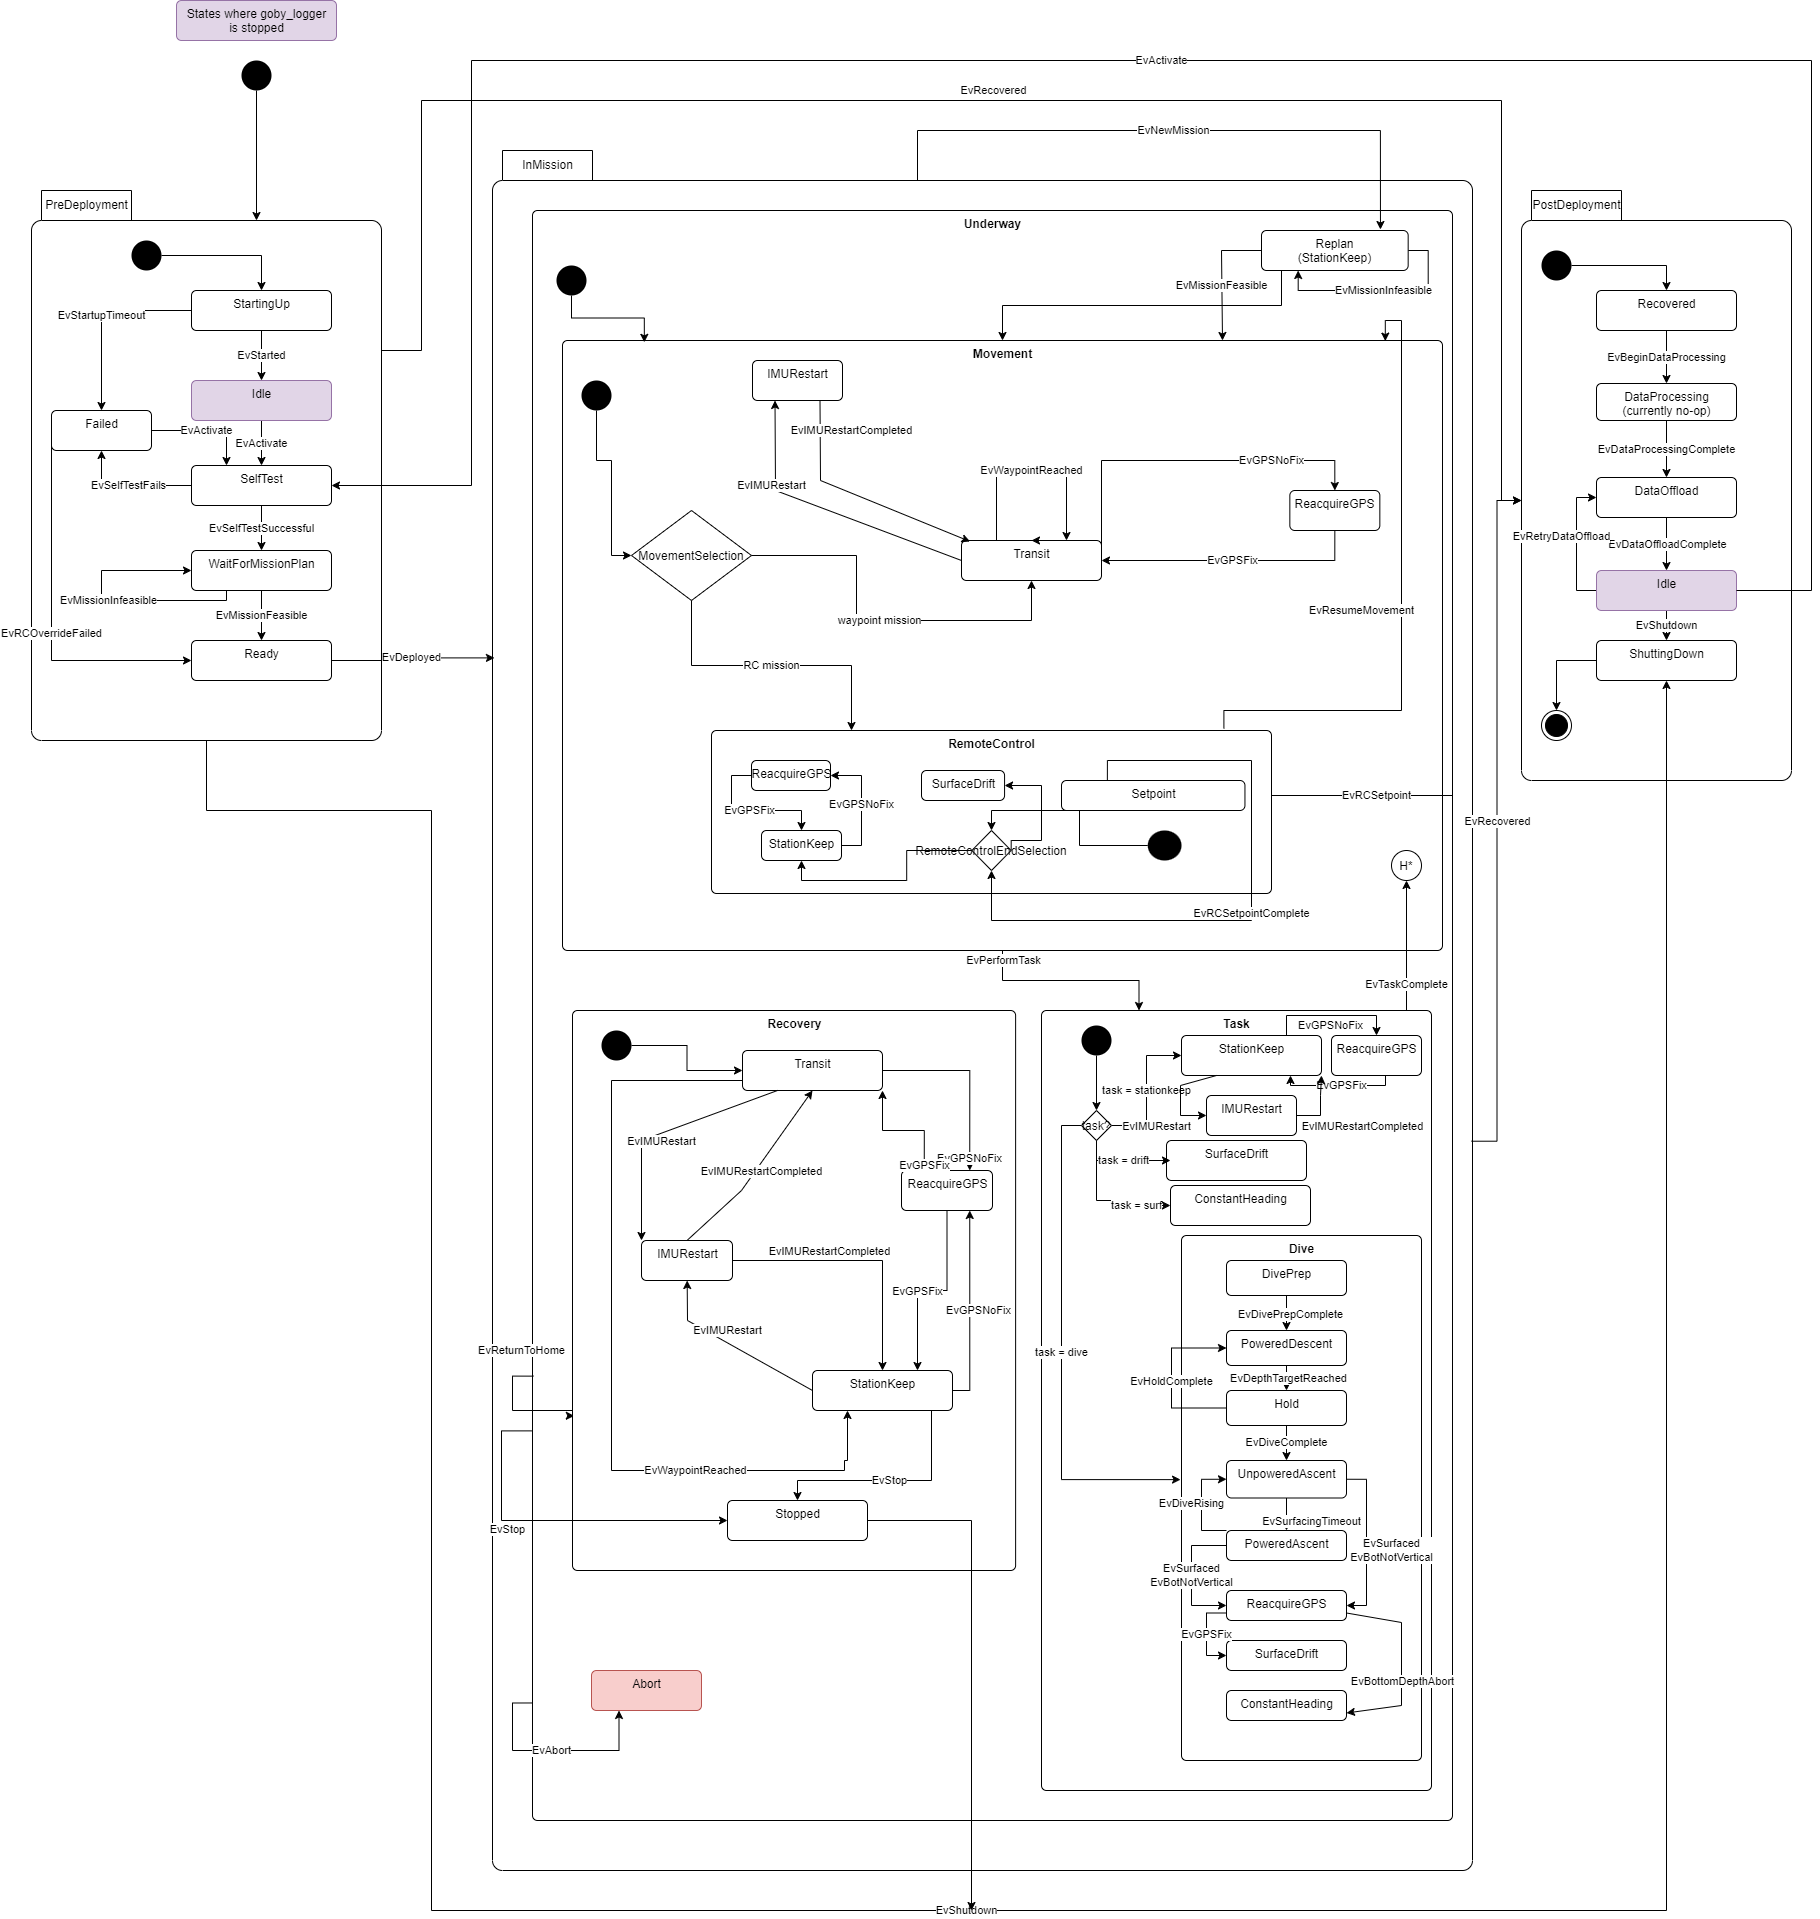
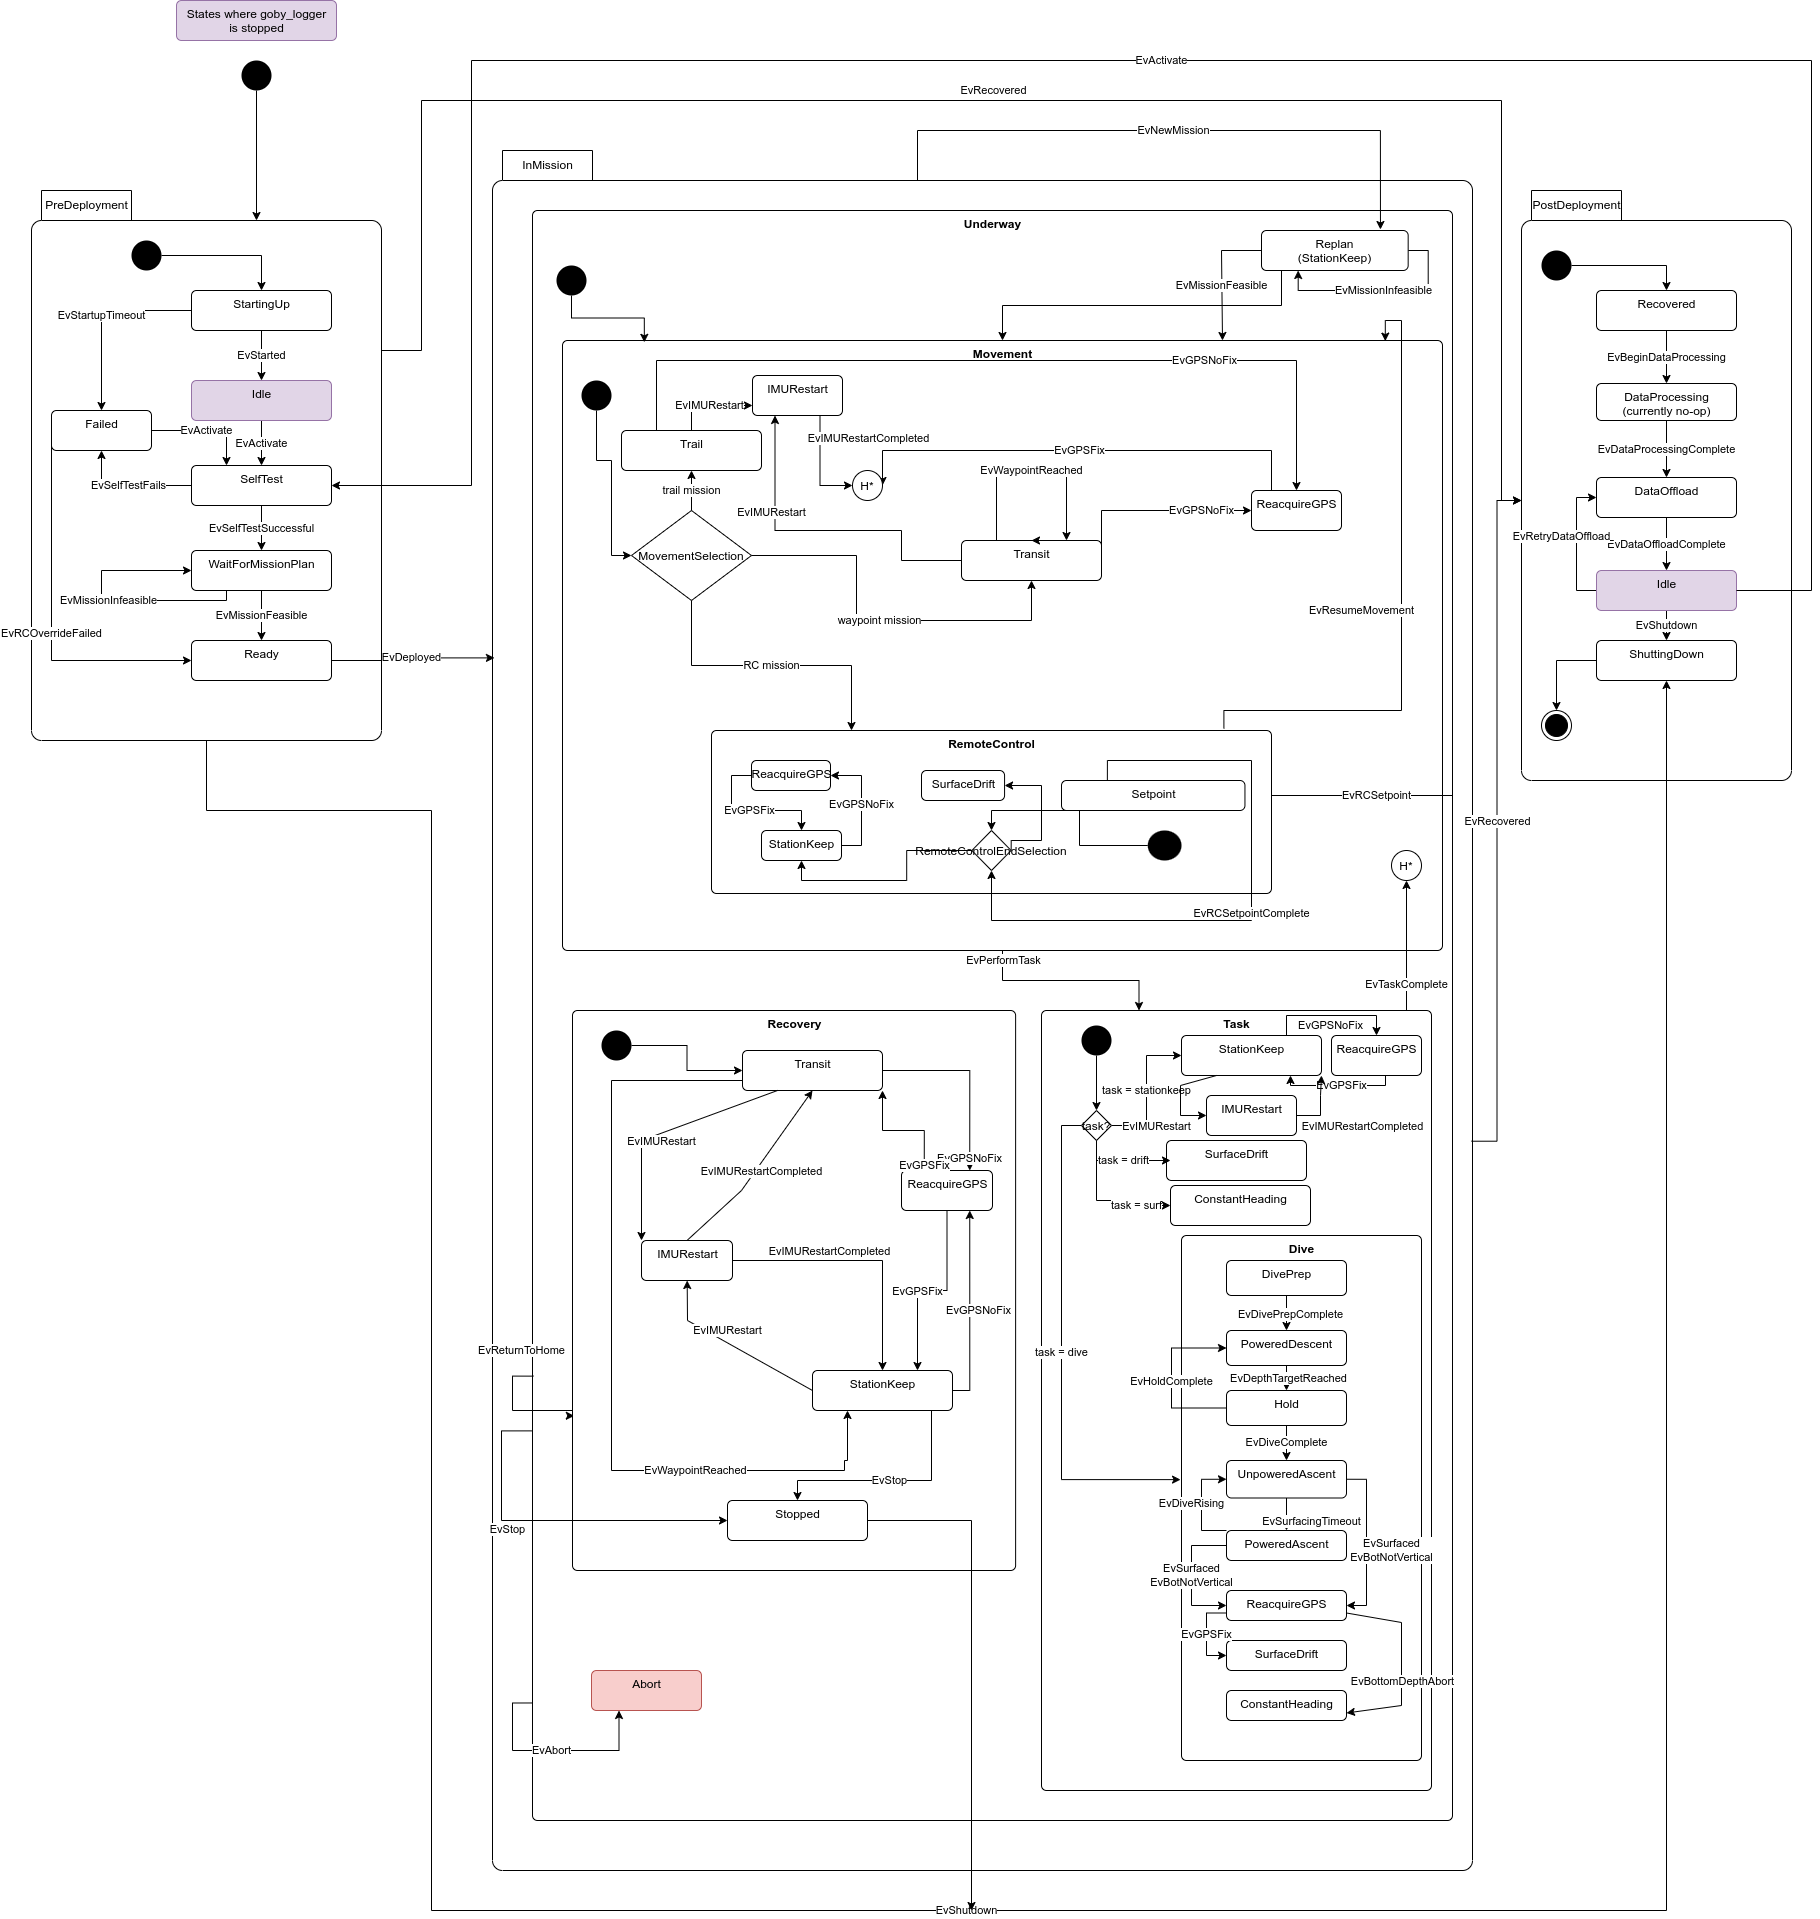
Trail autonomy work with bot 1 as trail contact 0

diff --git a/src/bin/hub_manager/hub_manager.cpp b/src/bin/hub_manager/hub_manager.cpp
@@ -24,10 +24,16 @@
 // this space intentionally left blank
 #include <goby/middleware/frontseat/groups.h>
 #include <goby/middleware/gpsd/groups.h>
+#include <goby/middleware/io/line_based/pty.h>
+#include <goby/middleware/io/line_based/serial.h>
+#include <goby/middleware/io/line_based/tcp_client.h>
+#include <goby/middleware/io/line_based/tcp_server.h>
+#include <goby/middleware/io/udp_point_to_point.h>
 #include <goby/middleware/protobuf/frontseat_data.pb.h>
 #include <goby/middleware/protobuf/gpsd.pb.h>
+#include <goby/util/linebasedcomms/gps_sentence.h>
 
-#include <goby/zeromq/application/single_thread.h>
+#include <goby/zeromq/application/multi_thread.h>
 
 #include "config.pb.h"
 #include "jaiabot/comms/comms.h"
@@ -40,12 +46,16 @@
 
 using goby::glog;
 namespace si = boost::units::si;
-using ApplicationBase = goby::zeromq::SingleThreadApplication<jaiabot::config::HubManager>;
+using ApplicationBase = goby::zeromq::MultiThreadApplication<jaiabot::config::HubManager>;
 
 namespace jaiabot
 {
 namespace apps
 {
+
+constexpr goby::middleware::Group bot_gps_in{"bot_gps_in"};
+constexpr goby::middleware::Group bot_gps_out{"bot_gps_out"};
+
 class HubManager : public ApplicationBase
 {
   public:
@@ -101,6 +111,9 @@ class HubManager : public ApplicationBase
     // map GPSD device name to heading
     std::map<std::string, boost::units::quantity<boost::units::degree::plane_angle>>
         contact_heading_;
+
+    // set of Bot IDs with bot_to_gps in use
+    std::set<int> bot_to_gps_ids_;
 };
 } // namespace apps
 } // namespace jaiabot
@@ -127,6 +140,40 @@ jaiabot::apps::HubManager::HubManager() : ApplicationBase(1 * si::hertz)
 
     for (auto contact_gps : cfg().contact_gps())
         contact_gps_.insert(std::make_pair(contact_gps.gpsd_device(), contact_gps.contact()));
+
+    for (auto bot_to_gps : cfg().bot_to_gps())
+    {
+        switch (bot_to_gps.transport_case())
+        {
+            case jaiabot::config::HubManager::BotToGPS::kUdp:
+                launch_thread<goby::middleware::io::UDPPointToPointThread<bot_gps_in, bot_gps_out>>(
+                    bot_to_gps.bot_id(), bot_to_gps.udp());
+                break;
+            case jaiabot::config::HubManager::BotToGPS::kPty:
+                launch_thread<goby::middleware::io::PTYThreadLineBased<bot_gps_in, bot_gps_out>>(
+                    bot_to_gps.bot_id(), bot_to_gps.pty());
+                break;
+            case jaiabot::config::HubManager::BotToGPS::kSerial:
+                launch_thread<goby::middleware::io::SerialThreadLineBased<bot_gps_in, bot_gps_out>>(
+                    bot_to_gps.bot_id(), bot_to_gps.serial());
+                break;
+            case jaiabot::config::HubManager::BotToGPS::kTcpClient:
+                launch_thread<
+                    goby::middleware::io::TCPClientThreadLineBased<bot_gps_in, bot_gps_out>>(
+                    bot_to_gps.bot_id(), bot_to_gps.tcp_client());
+                break;
+            case jaiabot::config::HubManager::BotToGPS::kTcpServer:
+                launch_thread<
+                    goby::middleware::io::TCPServerThreadLineBased<bot_gps_in, bot_gps_out>>(
+                    bot_to_gps.bot_id(), bot_to_gps.tcp_server());
+
+                break;
+            case jaiabot::config::HubManager::BotToGPS::TRANSPORT_NOT_SET: break;
+        }
+
+        if (bot_to_gps.transport_case() != jaiabot::config::HubManager::BotToGPS::TRANSPORT_NOT_SET)
+            bot_to_gps_ids_.insert(bot_to_gps.bot_id());
+    }
 
     for (auto id : managed_bot_modem_ids_) intervehicle_subscribe(id);
 
@@ -338,6 +385,34 @@ void jaiabot::apps::HubManager::handle_bot_nav(const jaiabot::protobuf::BotStatu
     // publish for opencpn interface
     if (node_status.IsInitialized())
         interprocess().publish<goby::middleware::frontseat::groups::node_status>(node_status);
+
+    if (bot_to_gps_ids_.count(dccl_nav.bot_id()))
+    {
+        goby::util::gps::RMC rmc;
+        goby::util::gps::HDT hdt;
+
+        rmc.status = goby::util::gps::RMC::DataValid;
+
+        rmc.latitude = dccl_nav.location().lat_with_units();
+        rmc.longitude = dccl_nav.location().lon_with_units();
+
+        rmc.speed_over_ground = dccl_nav.speed().over_ground_with_units();
+
+        hdt.true_heading = dccl_nav.attitude().heading_with_units();
+        {
+            auto io_data = std::make_shared<goby::middleware::protobuf::IOData>();
+            io_data->set_index(dccl_nav.bot_id());
+            io_data->set_data(rmc.serialize().message_cr_nl());
+            interthread().publish<bot_gps_out>(io_data);
+        }
+
+        {
+            auto io_data = std::make_shared<goby::middleware::protobuf::IOData>();
+            io_data->set_index(dccl_nav.bot_id());
+            io_data->set_data(hdt.serialize().message_cr_nl());
+            interthread().publish<bot_gps_out>(io_data);
+        }
+    }
 }
 
 void jaiabot::apps::HubManager::handle_task_packet(const jaiabot::protobuf::TaskPacket& task_packet)

diff --git a/src/bin/mission_manager/app.cpp b/src/bin/mission_manager/app.cpp
@@ -589,6 +589,16 @@ void jaiabot::apps::MissionManager::intervehicle_subscribe(
                 glog.is_debug1() && glog << "Received contact update: "
                                          << contact_update.ShortDebugString() << std::endl;
 
+                // republish for logging
+                interprocess().publish<jaiabot::groups::contact_update>(contact_update);
+
+                if (!machine_->has_geodesy())
+                {
+                    glog.is_debug1() && glog << "No geodesy yet, ignore contact update"
+                                             << std::endl;
+                    return;
+                }
+
                 jaiabot::protobuf::IvPBehaviorUpdate ivp_update;
                 jaiabot::protobuf::IvPBehaviorUpdate::ContactUpdate& ivp_contact =
                     *ivp_update.mutable_contact();
@@ -632,7 +642,7 @@ void jaiabot::apps::MissionManager::loop()
         report.set_repeat_index(in_mission->repeat_index());
     }
 
-    // only report the goal index when not in recovery
+    // only report the goal index when not in recovery or trail
     if (in_mission && in_mission->goal_index() != statechart::InMission::RECOVERY_GOAL_INDEX)
     {
         // Set Active Goal Index + 1 for User Interface And Log Review.
@@ -647,7 +657,7 @@ void jaiabot::apps::MissionManager::loop()
         }
         goal_speed = machine_->mission_plan().speeds().transit();
     }
-    else if (in_mission && in_mission->goal_index() == statechart::InMission::RECOVERY_GOAL_INDEX)
+    else if (in_mission && (in_mission->goal_index() == statechart::InMission::RECOVERY_GOAL_INDEX))
     {
         if (machine_->mission_plan().recovery().has_recover_at_final_goal())
         {

diff --git a/src/lib/moos_gateway/jaiabot_gateway_plugin.cpp b/src/lib/moos_gateway/jaiabot_gateway_plugin.cpp
@@ -130,7 +130,7 @@ void jaiabot::moos::IvPHelmTranslation::publish_bhv_update(
                           << "#trail_angle=" << update.trail().param().angle()
                           << "#trail_angle_type="
                           << (update.trail().param().angle_relative() ? "relative" : "absolute")
-                          << "#trail_range" << update.trail().param().range();
+                          << "#trail_range=" << update.trail().param().range();
                 moos().comms().Notify("JAIABOT_TRAIL_UPDATES", update_ss.str());
             }
 
@@ -144,7 +144,8 @@ void jaiabot::moos::IvPHelmTranslation::publish_bhv_update(
         {
             glog.is_verbose() && glog << "kContact: " << update.ShortDebugString() << std::endl;
             std::stringstream update_ss;
-            update_ss << "NAME=CONTACT_" << update.contact().contact() << ",TIME=" << MOOSTime()
+            update_ss << "NAME=CONTACT_" << update.contact().contact()
+                      << ",TIME=" << static_cast<std::uint64_t>(MOOSTime())
                       << ",X=" << update.contact().x() << ",Y=" << update.contact().y()
                       << ",SPD=" << update.contact().speed()
                       << ",HDG=" << update.contact().heading();

diff --git a/src/bin/mission_manager/machine.cpp b/src/bin/mission_manager/machine.cpp
@@ -227,6 +227,9 @@ jaiabot::statechart::inmission::underway::movement::Transit::~Transit()
 jaiabot::statechart::inmission::underway::movement::Trail::Trail(typename StateBase::my_context c)
     : AcquiredGPSCommon<Trail, Movement, protobuf::IN_MISSION__UNDERWAY__MOVEMENT__TRAIL>(c)
 {
+    // next goal (after trailing) is recovery
+    context<InMission>().set_goal_index_to_recovery();
+
     jaiabot::protobuf::IvPBehaviorUpdate update;
     update.mutable_trail()->set_active(true);
     if (this->machine().mission_plan().has_trail())

diff --git a/config/gen/hub.py b/config/gen/hub.py
@@ -175,6 +175,9 @@ elif common.app == 'jaiabot_metadata':
                                      app_block=app_common,
                                      interprocess_block = interprocess_common,
                                      xbee_info=xbee_info))
+elif common.app == 'gpsd':
+    # Run for forwarding contacts
+    print('-S {} -N {}'.format(common.hub.gpsd_port(node_id), "udp://127.0.0.1:33001"))
 elif common.app == 'log_file':
     print(log_file_dir)
 else:

diff --git a/src/bin/mission_manager/machine.h b/src/bin/mission_manager/machine.h
@@ -796,6 +796,11 @@ struct InMission
         // Sets goal index to be the final goal index
         goal_index_ = (this->machine().mission_plan().goal_size() - 1);
     }
+    void set_goal_index_to_recovery()
+    {
+        // Sets goal index to be the recovery goal
+        goal_index_ = RECOVERY_GOAL_INDEX;
+    }
 
     void set_mission_complete() { mission_complete_ = true; }
 

diff --git a/config/gen/common/hub.py b/config/gen/common/hub.py
@@ -8,5 +8,8 @@ def gpsd_device(node_id):
         return '/dev/gps0'
 
 def gpsd_port(node_id):
-    default_gpsd_port=2947
-    return default_gpsd_port
+    if is_simulation():
+        return 32000 + node_id
+    else:
+        default_gpsd_port=2947
+        return default_gpsd_port

diff --git a/src/bin/simulator/simulator.cpp b/src/bin/simulator/simulator.cpp
@@ -36,6 +36,7 @@
 #include <goby/util/linebasedcomms/gps_sentence.h>
 #include <goby/util/sci.h>
 #include <goby/util/seawater.h>
+
 #include <goby/zeromq/application/multi_thread.h>
 
 #include "config.pb.h"
